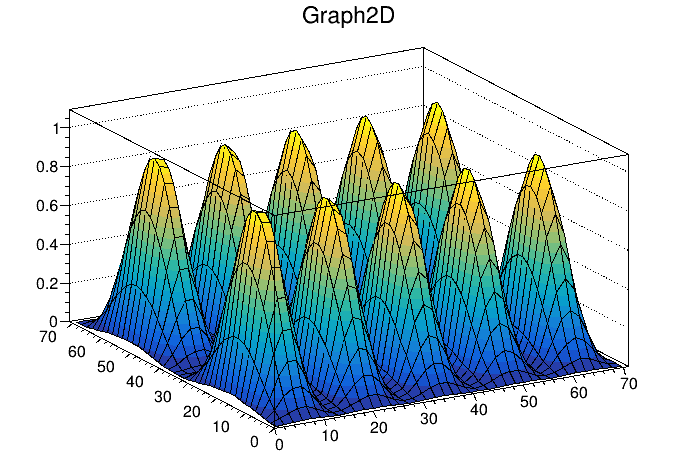
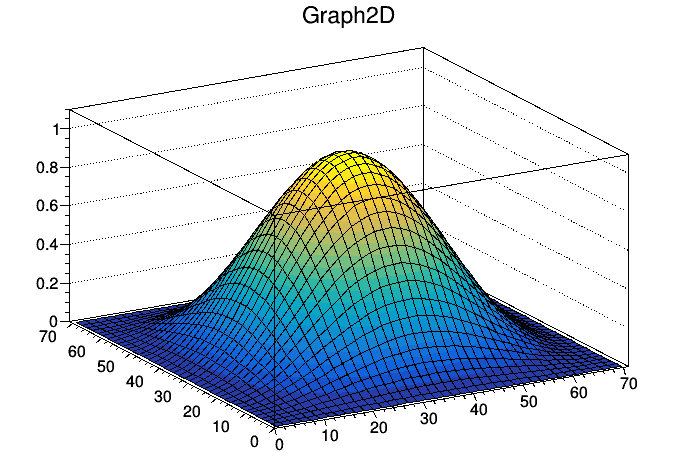
Cleaned Up code

diff --git a/HydrogenAtom/h.C b/HydrogenAtom/h.C
@@ -3,15 +3,6 @@
 
 double WaveFunction(double x, double y)
 {
-    //TVector3 *waveFunctionCartesian = new TVector3(r*sin(theta)*cos(phi), r*sin(theta)+sin(phi), r*cos(phi));
-    //double radical = sqrt(1-r);//1/sqrt(TMath::Pi())*((1/5.29177210903e-11)); //* exp(2.9, -r/5.29177210903e-11))); //((2.9)^(-r/5.29177210903e-11)));
-    //double sphericalHarmonic = 0.5*sqrt(1/TMath::Pi());
-
-    //cout << r << endl;
-
-    //return radical * sphericalHarmonic;
-
-
     double r = sqrt(x * x + y * y);
 
     double w = (1/pow((4*sqrt(2*TMath::Pi())* 1), 1.5)) * (2 - (r / 1)*pow(TMath::E(), -r/2));
@@ -22,33 +13,17 @@ double WaveFunction(double x, double y)
 
 void h()
 {
-    TGraph2D *g = new TGraph2D();
-
-    TGraph *gr = new TGraph();
-
     TH2F *hist = new TH2F("Hydrogen Atom", "H", 1000, -15, 15, 1000, -15, 15);
 
     int count = 1;
 
-    //for (float i = 0; i < 1; i+=0.1){
-      //  for (float j = 0; j < 2 * TMath::Pi(); j+=0.1){
-        //    for (float k = 0; k < 2 * TMath::Pi(); k+=0.1){
-          //      g->SetPoint(g->GetN(), i * sin(j)*cos(k), i * sin(j)*sin(k), WaveFunction(i, j, k));
-            //    gr->SetPoint(gr->GetN(), )
-            //}
-        //}
-    //}
-
     for (float i = -15; i < 15; i+=0.01){
         for (float j = -15; j < 15; j+=0.01){
-            //gr->SetPoint(gr->GetN(), i, j, WaveFunction(i, j));
-            //count++;
             hist->Fill(i, j, WaveFunction(i, j));
         }
     }
     TCanvas *c1 = new TCanvas("c1", "Schrödinger's Hydrogen Atom", 700, 700);
     hist->Draw("colz");
-    //g->Draw("surf1");
 
 }
 
